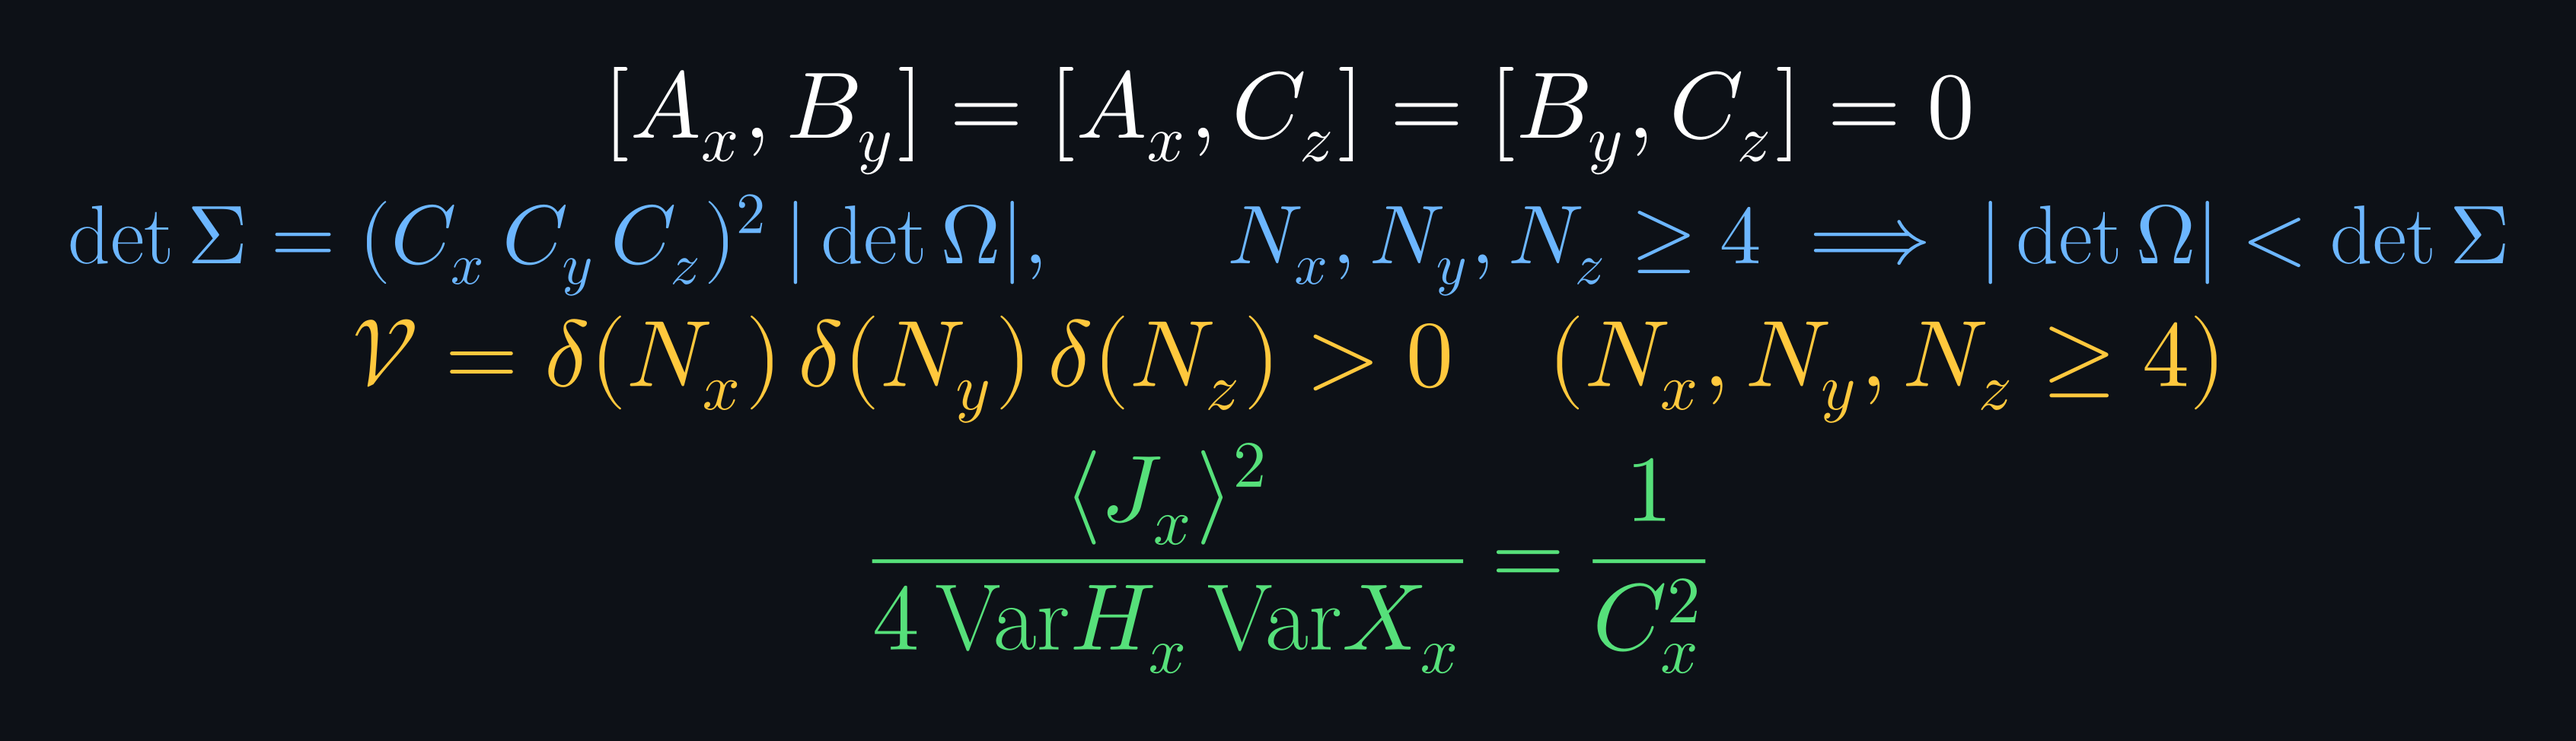
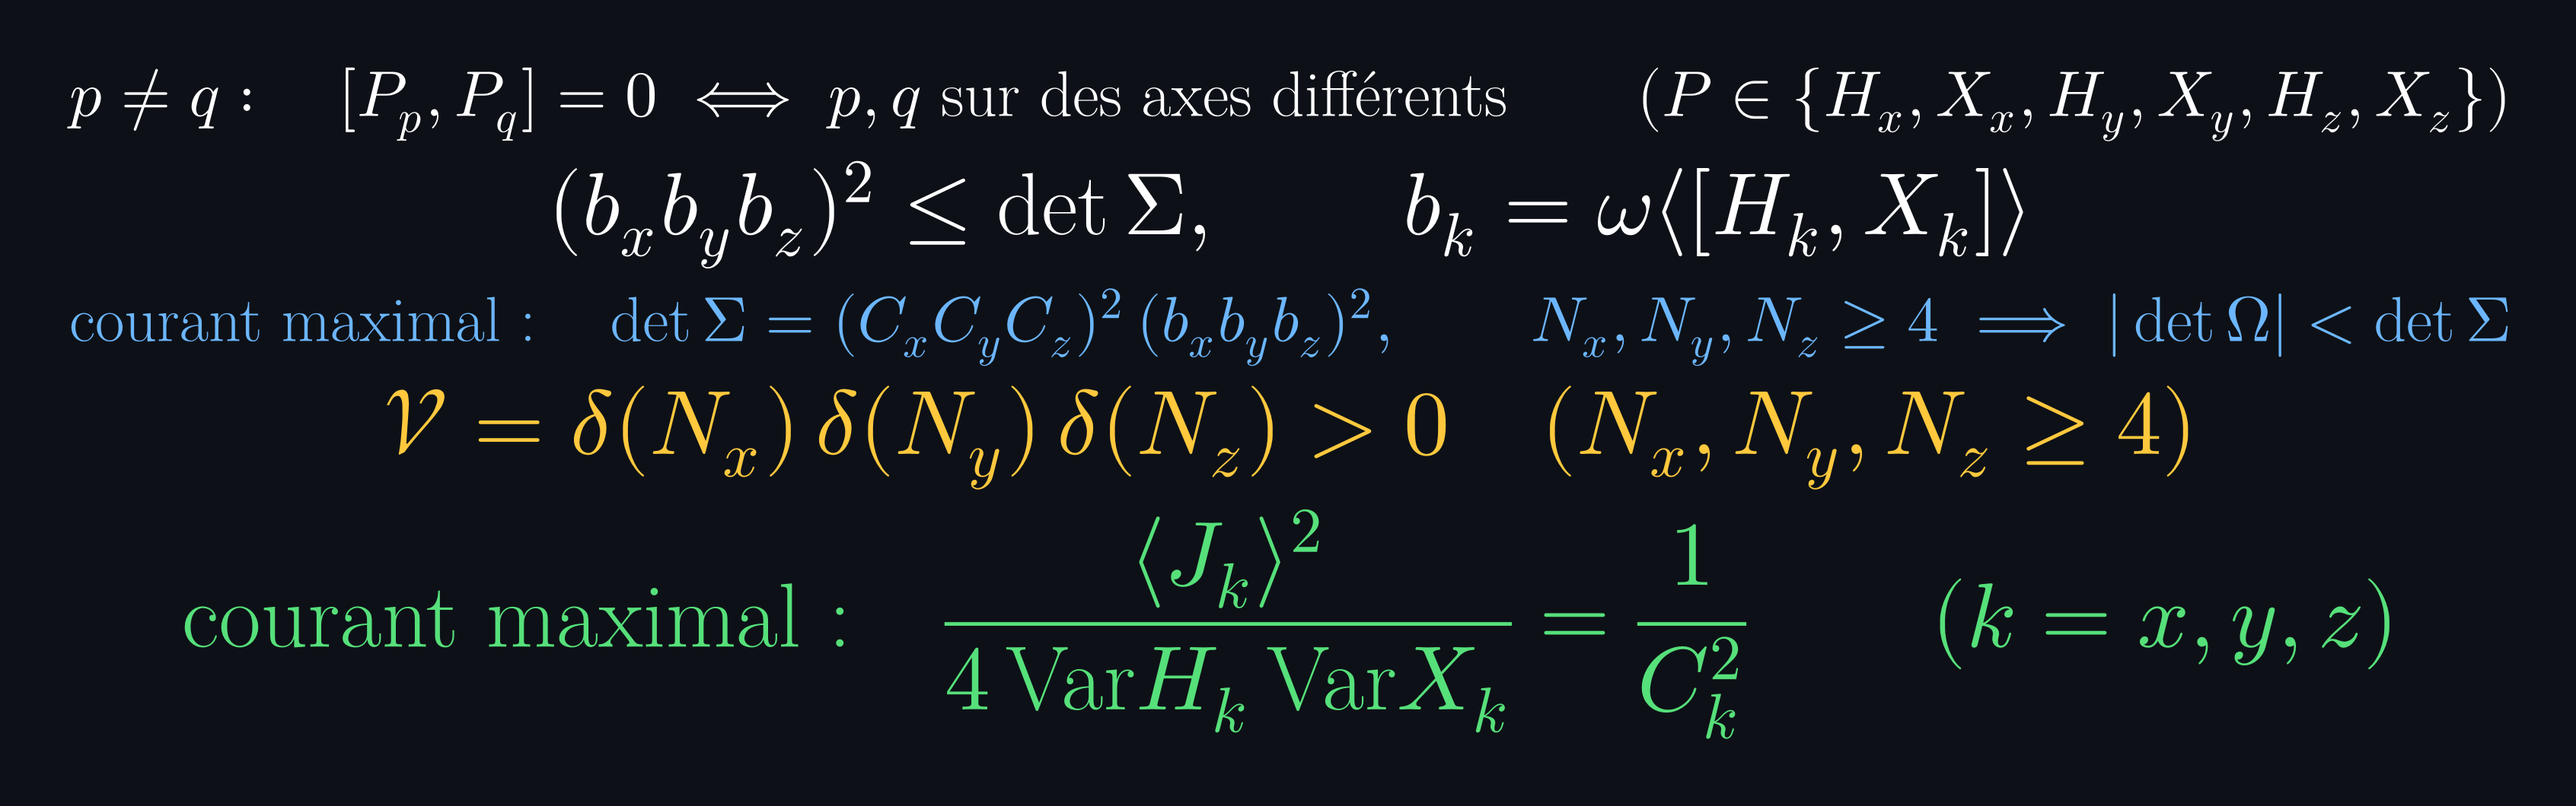
fix: every claim and every cited PR now matches a Lean statement
Lean:
- Cube.pairs_commute_iff: two of the six observables commute iff they lie on
  different axes (Physlib #1986, cited before but unused).
- Cube.mandelstamTamm_efficiency: ratio 1/C^2 on the three axes (was x only,
  the README said "each axis").
- tendsto_uncertaintyRatio_longChain: C -> sqrt(pi^2/3 - 2) (Physlib #1734,
  cited before but unused).
- openCubeNRS3 on t != 0, with commutation and the three axes;
  fork_unification drops the unused hypothesis 0 < G.
- Docstrings state exactly the Lean statements and their Physlib PRs.

README:
- PR table complete: #1718 #1723 #1724 #1730 #1742 added (used in Lean);
  every row is a declaration the repo uses.
- Robertson strict and Mandelstam-Tamm stated in the maximal current state.
- Step 1: maxCurrent is the largest eigenvalue of J, attained by the maximal
  current state (the "maximal group velocity" sentence was false).
- sqrt(-g00) = 1 + alpha xi for 1 + alpha xi >= 0; step 9 plaque redone.

Claude-Session: https://claude.ai/code/session_013BSioy1gyKo1tGTAdoLJW5

diff --git a/README.md b/README.md
@@ -29,12 +29,12 @@
 > 1. **`a` se simplifie** : `a / maxCurrent = 1 / (2|t| cos(π/(N+1)))`, le même pour tout espacement.
 > 2. **Le temps compte les pas** : `n` pas durent `n · τ_pas` ; aucun état ne parcourt `n` espacements plus vite ; l'état de courant maximal les parcourt exactement en ce temps.
 > 3. **Sans pas, pas de temps** : `n · τ_pas = 0 ⟺ n = 0`.
-> 4. **Lumière ou masse** : l'état de courant maximal sature Robertson–Schrödinger exactement en `N = 2, 3` ; dès `N = 4` son rapport d'incertitude vérifie `1 < C < √(π²/3 − 2)`.
+> 4. **Lumière ou masse** : l'état de courant maximal sature Robertson–Schrödinger exactement en `N = 2, 3` ; dès `N = 4` son rapport d'incertitude vérifie `1 < C < √(π²/3 − 2)`, et `C → √(π²/3 − 2)` quand `N → ∞`.
 > 5. **Niven** : dès `N = 3`, `cos(π/(N+1))` est irrationnel, donc le pas n'est jamais une fraction rationnelle de `1/|t|`.
 > 6. **Masse effective** : la masse effective de la bande, `m* = 1/E''(0) = 1/(2 t a²)`, a une énergie au repos `m* c² = 2 t cos²(π/(N+1))` où `a` se simplifie encore ; `α_G = G m*²/c > 0`.
 > 7. **Équivalence et `g₀₀`** : dans le référentiel accéléré, `g₀₀ = −(1 + αξ)² = −(1 + 2Φ) − Φ²` avec `Φ = αξ`, et une horloge statique bat à `1 + αξ` ; le champ faible de `Φ = −GM/r` a, en `r₀`, la même pente de `g₀₀` que le référentiel d'accélération `GM/r₀²`.
 > 8. **Einstein** : l'horloge accélérée fixe la température `α/2π`, et la relation de Clausius sur chaque nappe de lumière, avec `η = 1/(4ℓ²)`, donne `Ric − ½ R g + Λ g = 8π ℓ² T`.
-> 9. **Le cube ouvert NRS³** : sur le produit de trois chaînes, les axes distincts commutent ; dès `4 × 4 × 4`, le quantum volumétrique est strictement positif (`𝒱 > 0`) et Robertson 1934 est strict pour les six observables (`|det Ω| < det Σ`) ; le rapport de Mandelstam–Tamm vaut `1/C²` sur chaque axe. Les étapes sont réunies dans `fork_unification`.
+> 9. **Le cube ouvert NRS³** : sur le produit de trois chaînes, deux observables distinctes parmi `H_k, X_k` commutent si et seulement si elles sont sur des axes différents ; dès `4 × 4 × 4`, le quantum volumétrique est strictement positif (`𝒱 > 0`) et, dans l'état de courant maximal, Robertson 1934 est strict pour les six observables (`|det Ω| < det Σ`) ; dans cet état, le rapport de Mandelstam–Tamm vaut `1/C²` sur chaque axe. Le pas, `m* c²`, le cube, l'équivalence, Unruh et Einstein sont réunis dans `fork_unification`.
 
 <div align="center">
 <img src="assets/plaque_temps_pas_einstein.png" alt="Le temps compte les pas : position, simplification de a, lumière et masse, équation d'Einstein" width="860">
@@ -55,7 +55,8 @@ en ce temps (`elapsed_eq_travelTime_maxCurrentState`).
 
 **Lumière ou masse.** Le défaut de Gram de l'état de courant maximal est nul exactement en
 `N = 2, 3`, et dès `N = 4` le rapport d'incertitude est strictement entre `1` et `√(π²/3 − 2)`.
-Avec ce qui précède : `timeCountsSteps`.
+Avec ce qui précède : `timeCountsSteps`. Quand `N → ∞`, `C → √(π²/3 − 2)`
+(`tendsto_uncertaintyRatio_longChain`).
 
 **Niven.** `cos(π/(N+1)) ∉ ℚ` pour `N ≥ 3` (`cos_pi_div_succ_irrational`, sur le théorème de
 Niven de Mathlib), donc `2|t| τ_pas ∉ ℚ` (`stepTime_irrational`) ; en `N = 2`, `2|t| τ_pas = 2`
@@ -70,7 +71,7 @@ Niven de Mathlib), donc `2|t| τ_pas ∉ ℚ` (`stepTime_irrational`) ; en `N = 
 **Équivalence.** Le référentiel accéléré `t = (1/α + ξ) sinh αη`, `x = (1/α + ξ) cosh αη` a pour
 intervalle `−(1 + αξ)² dη² + dξ²` (`Frame.metric`) et coïncide en `ξ = 0` avec la ligne de Rindler
 (`Frame.time_zero`, `Frame.space_zero`). `g₀₀ = −(1 + 2Φ) − Φ²` (`Frame.g00_eq_weakField`),
-`√(−g₀₀) = 1 + αξ` (`Frame.clockRate`), et le champ faible de `−GM/r` a en `r₀` la pente de `g₀₀`
+`√(−g₀₀) = 1 + αξ` pour `1 + αξ ≥ 0` (`Frame.clockRate`), et le champ faible de `−GM/r` a en `r₀` la pente de `g₀₀`
 du référentiel d'accélération `GM/r₀²` (`Frame.equivalence`). Réunis : `massAndEquivalence`.
 
 **Horloge accélérée et Einstein.** La ligne d'univers de Rindler d'accélération `α` est paramétrée
@@ -78,15 +79,17 @@ par le temps propre, de période imaginaire minimale `2π/α` et de température
 (`acceleratedClock`). Clausius sur chaque nappe de lumière avec `η = 1/(4ℓ²)`, et `∇f = ½ ∇R`,
 donnent l'équation d'Einstein de couplage `8π ℓ²` (`einstein_eightPi`).
 
-**Le cube ouvert NRS³.** Sur le cube `Tx × Ty × Tz`, les
-observables d'axes distincts commutent (`Cube.axes_commute`), Robertson 1934 s'applique aux six
-observables (`Cube.robertson_det`), le rapport des déterminants vérifie `det Σ = (C_x C_y C_z)² |det Ω|`
-(`Cube.det_cov_maxCurrentCubeState`) et devient strict dès `4 × 4 × 4` (`Cube.robertson_det_strict`).
-Le quantum volumétrique est strictement positif (`Cube.volQuantum_pos`) et l'efficacité de
-Mandelstam–Tamm vaut `1/C_x²` (`Cube.mandelstamTamm_efficiency`). Réunis : `openCubeNRS3` et
-`fork_unification`.
+**Le cube ouvert NRS³.** Sur le cube `Tx × Ty × Tz`, les observables d'axes différents commutent
+(`Cube.axes_commute`) ; parmi les six observables `H_k, X_k`, deux observables distinctes
+commutent si et seulement si elles sont sur des axes différents (`Cube.pairs_commute_iff`). Dans
+tout état, `(b_x b_y b_z)² ≤ det Σ` avec `b_k = ω⟨[H_k, X_k]⟩` (`Cube.robertson_det`) ; dans l'état
+de courant maximal, `det Σ = (C_x C_y C_z)² (b_x b_y b_z)²` (`Cube.det_cov_maxCurrentCubeState`)
+et, dès `4 × 4 × 4`, `|det Ω| < det Σ` (`Cube.robertson_det_strict`). Dès `4 × 4 × 4`, `𝒱 > 0`
+(`Cube.volQuantum_pos`) ; dans l'état de courant maximal, le rapport de Mandelstam–Tamm vaut
+`1/C_k²` sur chaque axe (`Cube.mandelstamTamm_efficiency`). Réunis : `openCubeNRS3`.
 
-**Clôture.** `properTime_generalRelativity` et `fork_unification`.
+**Clôture.** `properTime_generalRelativity` (le pas, Unruh, Einstein) et `fork_unification` (en plus
+`m* c²`, le cube et l'équivalence).
 
 ---
 
@@ -101,8 +104,8 @@ Mandelstam–Tamm vaut `1/C_x²` (`Cube.mandelstamTamm_efficiency`). Réunis : `
 <img src="assets/plaque_etape1_saut.png" alt="Position, saut du graphe chemin, commutateur avec la position, limite de vitesse" width="860">
 </div>
 
-*Modules formels :* Physlib `PhyslibAlpha/CondensedMatter/TightBindingChain` : `Open/Basic.lean` (#2096) et `Current/SpeedLimit.lean`.  
-`maxCurrent` est la vitesse de groupe maximale de la chaîne finie : la borne est exacte et atteinte par l'état de courant maximal ; elle tend vers `2|a t|` quand `N → ∞`.
+*Modules formels :* Physlib `PhyslibAlpha/CondensedMatter/TightBindingChain` : `Open/Basic.lean` (#2096) et `Current/SpeedLimit.lean` (#1724).  
+`maxCurrent` est la plus grande valeur propre du courant `J` : la borne est exacte, atteinte par l'état de courant maximal.
 
 ### Étape 2 : `a` se simplifie, le temps compte les pas
 
@@ -131,15 +134,15 @@ Niven (Mathlib) : en `0 ≤ r ≤ 1`, `cos(rπ) ∈ ℚ` force `r ∈ {0, 1/3, 1
 ### Étape 4 : lumière en `N = 2, 3`, masse dès `N = 4`
 
 > **Proposition 4.1 (Physlib).** L'état de courant maximal sature Robertson–Schrödinger exactement
-> en `N = 2, 3` ; dès `N = 4`, `1 < C < √(π²/3 − 2)`.
+> en `N = 2, 3` ; dès `N = 4`, `1 < C < √(π²/3 − 2)` ; et `C → √(π²/3 − 2)` quand `N → ∞`.
 
 <div align="center">
 <img src="assets/plaque_etape3_lumiere_masse.png" alt="Saturation exactement en N = 2, 3 ; rapport d'incertitude strictement entre 1 et la limite de Szegő" width="860">
 </div>
 
-*Modules formels :* Physlib `MaxCurrentState/Saturation.lean`, `UncertaintyRatio.lean`, `LongChainMonotonicity.lean` (#1735) ; réunis dans [`StepTime.lean`](src/ProperTimeGeneralRelativity/StepTime.lean) (`timeCountsSteps`).
+*Modules formels :* Physlib `MaxCurrentState/Saturation.lean` (#1718), `UncertaintyRatio.lean` (#1723), `LongChainMonotonicity.lean` (#1735), `LongChainLimit.lean` (#1734) ; réunis dans [`StepTime.lean`](src/ProperTimeGeneralRelativity/StepTime.lean) (`timeCountsSteps`, `tendsto_uncertaintyRatio_longChain`).
 
-### Étape 5 : la masse effective, sans échelle libre
+### Étape 5 : la masse effective ; `a` se simplifie dans `m* c²`
 
 > **Théorème 5.1.** `E''(0) = 2 t a²`, `m* = 1/(2 t a²)` ; avec `c = maxCurrent`,
 > `m* c² = 2 t cos²(π/(N+1))`, `m* c² τ_pas = cos(π/(N+1))`, et `α_G = G m*²/c > 0` (`ħ = 1`).
@@ -167,14 +170,14 @@ Dans le code Lean l'accélération s'appelle `a` (`Rindler.time a`), sans lien a
 ### Étape 7 : le référentiel accéléré, `g₀₀` et l'équivalence
 
 > **Théorème 7.1.** Dans le référentiel `t = (1/α + ξ) sinh αη`, `x = (1/α + ξ) cosh αη`,
-> `−dt² + dx² = −(1 + αξ)² dη² + dξ²` ; `g₀₀ = −(1 + 2Φ) − Φ²` avec `Φ = αξ` ; `√(−g₀₀) = 1 + αξ`.
+> `−dt² + dx² = −(1 + αξ)² dη² + dξ²` ; `g₀₀ = −(1 + 2Φ) − Φ²` avec `Φ = αξ` ; `√(−g₀₀) = 1 + αξ` pour `1 + αξ ≥ 0`.
 > Pour `Φ(r) = −GM/r`, la pente de `−(1 + 2Φ)` en `r₀` est celle de `g₀₀` du référentiel d'accélération `GM/r₀²`.
 
 <div align="center">
 <img src="assets/plaque_equivalence.png" alt="Référentiel accéléré, métrique, g00 en champ faible, rythme des horloges, équivalence avec le potentiel newtonien" width="860">
 </div>
 
-*Modules formels :* [`Equivalence.lean`](src/ProperTimeGeneralRelativity/Equivalence.lean) (`Frame.metric`, `Frame.time_zero`, `Frame.g00_eq_weakField`, `Frame.clockRate`, `Frame.equivalence`).  
+*Modules formels :* [`Equivalence.lean`](src/ProperTimeGeneralRelativity/Equivalence.lean) (`Frame.metric`, `Frame.time_zero`, `Frame.space_zero`, `Frame.g00_eq_weakField`, `Frame.clockRate`, `Frame.equivalence`).  
 `cosh² − sinh² = 1` donne la métrique ; `d(−GM/r)/dr = GM/r²` donne l'accélération locale.
 
 ### Étape 8 : Clausius sur chaque nappe de lumière donne Einstein
@@ -193,13 +196,13 @@ Dans le code Lean l'accélération s'appelle `a` (`Rindler.time a`), sans lien a
 
 ### Étape 9 : le cube ouvert NRS³
 
-> **Proposition 9.1 (Physlib).** Les observables d'axes distincts commutent ; dans l'état de courant maximal du cube, `det Σ = (C_x C_y C_z)² |det Ω|` ; dès `4 × 4 × 4`, `𝒱 = δ(Nx) δ(Ny) δ(Nz) > 0` et `|det Ω| < det Σ` ; sur chaque axe, `⟨J⟩² / (4 Var H Var X) = 1/C²`.
+> **Proposition 9.1 (Physlib).** Parmi les six observables `H_k, X_k`, deux observables distinctes commutent si et seulement si elles sont sur des axes différents. Dans tout état, `(b_x b_y b_z)² ≤ det Σ` avec `b_k = ω⟨[H_k, X_k]⟩`. Dans l'état de courant maximal du cube : `det Σ = (C_x C_y C_z)² (b_x b_y b_z)²` ; dès `4 × 4 × 4`, `|det Ω| < det Σ` ; sur chaque axe, `⟨J_k⟩² / (4 Var H_k Var X_k) = 1/C_k²`. Dès `4 × 4 × 4`, `𝒱 = δ(Nx) δ(Ny) δ(Nz) > 0`.
 
 <div align="center">
 <img src="assets/plaque_etape9_cube.png" alt="Axes distincts qui commutent, déterminant de Robertson 1934, quantum volumétrique, rapport de Mandelstam–Tamm" width="860">
 </div>
 
-*Modules formels :* [`Cube.lean`](src/ProperTimeGeneralRelativity/Cube.lean) (`Cube.axes_commute`, `Cube.robertson_det`, `Cube.det_cov_maxCurrentCubeState`, `Cube.robertson_det_strict`, `Cube.volQuantum_pos`, `Cube.mandelstamTamm_efficiency`) ;
+*Modules formels :* [`Cube.lean`](src/ProperTimeGeneralRelativity/Cube.lean) (`Cube.axes_commute`, `Cube.pairs_commute_iff`, `Cube.robertson_det`, `Cube.det_cov_maxCurrentCubeState`, `Cube.robertson_det_strict`, `Cube.volQuantum_pos`, `Cube.mandelstamTamm_efficiency`) ;
 [`ProperTimeGeneralRelativity.lean`](src/ProperTimeGeneralRelativity.lean) (`openCubeNRS3`, `fork_unification`).
 
 ---
@@ -209,13 +212,19 @@ Dans le code Lean l'accélération s'appelle `a` (`Rindler.time a`), sans lien a
 | PR | Énoncé | Étape |
 |---|---|---|
 | [#2096](https://github.com/leanprover-community/physlib/pull/2096) | la chaîne ouverte est le saut du graphe chemin : `H = E₀ I − t A(P_N)` | 1 |
-| [#1725](https://github.com/leanprover-community/physlib/pull/1725) | le cube ouvert NRS³ : trois axes commutants et constante C par axe | 9 |
-| [#1734](https://github.com/leanprover-community/physlib/pull/1734) | `C → √(π²/3 − 2)` pour les longues chaînes | 4 |
+| [#1724](https://github.com/leanprover-community/physlib/pull/1724) | limite de vitesse : `|⟨J⟩_ω| ≤ maxCurrent`, atteinte par l'état de courant maximal | 1, 2 |
+| [#1718](https://github.com/leanprover-community/physlib/pull/1718) | l'état de courant maximal sature Robertson–Schrödinger exactement en `N = 2, 3` | 4 |
+| [#1723](https://github.com/leanprover-community/physlib/pull/1723) | `1 < C` dès `N = 4` | 4 |
 | [#1735](https://github.com/leanprover-community/physlib/pull/1735) | `C` strictement croissant dès quatre sites, `C < √(π²/3 − 2)` | 4 |
-| [#1739](https://github.com/leanprover-community/physlib/pull/1739) | Mandelstam–Tamm et Cramér–Rao sur chaque axe : rapport `1/C²` | 9 |
-| [#1756](https://github.com/leanprover-community/physlib/pull/1756) | angle NRS et quantum volumétrique strictement positif | 9 |
-| [#1986](https://github.com/leanprover-community/physlib/pull/1986) | deux observables du cube commutent si et seulement si elles sont sur des axes distincts | 9 |
+| [#1734](https://github.com/leanprover-community/physlib/pull/1734) | `C → √(π²/3 − 2)` pour les longues chaînes | 4 |
+| [#1725](https://github.com/leanprover-community/physlib/pull/1725) | le cube ouvert : les observables d'axes différents commutent | 9 |
+| [#1730](https://github.com/leanprover-community/physlib/pull/1730) | Robertson 1934 pour plusieurs observables : `|det Ω| ≤ det Σ` | 9 |
+| [#1742](https://github.com/leanprover-community/physlib/pull/1742) | Robertson 1934 sur le cube ; `det Σ` au courant maximal ; strict dès `4 × 4 × 4` | 9 |
+| [#1756](https://github.com/leanprover-community/physlib/pull/1756) | le quantum volumétrique `𝒱 = δ(Nx) δ(Ny) δ(Nz)`, positif dès `4 × 4 × 4` | 9 |
+| [#1739](https://github.com/leanprover-community/physlib/pull/1739) | Mandelstam–Tamm au courant maximal : rapport `1/C²`, sur chaque axe du cube | 9 |
+| [#1986](https://github.com/leanprover-community/physlib/pull/1986) | deux observables du cube commutent si et seulement si elles sont sur des axes différents | 9 |
 
+Les noms actuels des déclarations viennent du [renommage de Joseph Tooby-Smith](https://github.com/leanprover-community/physlib/pull/1792) (« Fix names », 14 octobre 2026).
 ---
 
 ## Catalogue des modules Lean
@@ -226,24 +235,26 @@ Dans le code Lean l'accélération s'appelle `a` (`Rindler.time a`), sans lien a
 | [`StepTime.lean`](src/ProperTimeGeneralRelativity/StepTime.lean) | `elapsed_eq_zero_iff` | sans pas, pas de temps | 0 sorry |
 | [`StepTime.lean`](src/ProperTimeGeneralRelativity/StepTime.lean) | `elapsed_le_travelTime` | aucun état plus rapide que les pas | 0 sorry |
 | [`StepTime.lean`](src/ProperTimeGeneralRelativity/StepTime.lean) | `timeCountsSteps` | le temps compte les pas ; lumière ou masse | 0 sorry |
+| [`StepTime.lean`](src/ProperTimeGeneralRelativity/StepTime.lean) | `tendsto_uncertaintyRatio_longChain` | `C → √(π²/3 − 2)` quand `N → ∞` | 0 sorry |
 | [`Niven.lean`](src/ProperTimeGeneralRelativity/Niven.lean) | `stepTime_irrational` | `2|t| τ_pas ∉ ℚ` dès `N = 3` | 0 sorry |
 | [`Mass.lean`](src/ProperTimeGeneralRelativity/Mass.lean) | `effMass_mul_maxCurrent_sq` | `m* c² = 2 t cos²(π/(N+1))`, sans `a` | 0 sorry |
 | [`Mass.lean`](src/ProperTimeGeneralRelativity/Mass.lean) | `gravitationalCoupling_pos` | `α_G = G m*²/c > 0` | 0 sorry |
 | [`Equivalence.lean`](src/ProperTimeGeneralRelativity/Equivalence.lean) | `metric` | `−(1 + αξ)² dη² + dξ²` | 0 sorry |
 | [`Equivalence.lean`](src/ProperTimeGeneralRelativity/Equivalence.lean) | `equivalence` | champ faible de `M` = référentiel accéléré au premier ordre | 0 sorry |
 | [`Cube.lean`](src/ProperTimeGeneralRelativity/Cube.lean) | `axes_commute` | commutation des observables entre axes distincts | 0 sorry |
-| [`Cube.lean`](src/ProperTimeGeneralRelativity/Cube.lean) | `robertson_det` | Robertson 1934 sur les six observables du cube | 0 sorry |
-| [`Cube.lean`](src/ProperTimeGeneralRelativity/Cube.lean) | `det_cov_maxCurrentCubeState` | `det Σ = (C_x C_y C_z)² |det Ω|` | 0 sorry |
-| [`Cube.lean`](src/ProperTimeGeneralRelativity/Cube.lean) | `robertson_det_strict` | `|det Ω| < det Σ` dès `4 × 4 × 4` | 0 sorry |
+| [`Cube.lean`](src/ProperTimeGeneralRelativity/Cube.lean) | `pairs_commute_iff` | deux des six observables commutent ⟺ axes différents | 0 sorry |
+| [`Cube.lean`](src/ProperTimeGeneralRelativity/Cube.lean) | `robertson_det` | `(b_x b_y b_z)² ≤ det Σ` dans tout état | 0 sorry |
+| [`Cube.lean`](src/ProperTimeGeneralRelativity/Cube.lean) | `det_cov_maxCurrentCubeState` | `det Σ = (C_x C_y C_z)² (b_x b_y b_z)²` au courant maximal | 0 sorry |
+| [`Cube.lean`](src/ProperTimeGeneralRelativity/Cube.lean) | `robertson_det_strict` | `|det Ω| < det Σ` au courant maximal dès `4 × 4 × 4` | 0 sorry |
 | [`Cube.lean`](src/ProperTimeGeneralRelativity/Cube.lean) | `volQuantum_pos` | quantum volumétrique `𝒱 > 0` | 0 sorry |
-| [`Cube.lean`](src/ProperTimeGeneralRelativity/Cube.lean) | `mandelstamTamm_efficiency` | efficacité `1/C_x²` sur chaque axe | 0 sorry |
+| [`Cube.lean`](src/ProperTimeGeneralRelativity/Cube.lean) | `mandelstamTamm_efficiency` | rapport de Mandelstam–Tamm `1/C_k²` sur chaque axe | 0 sorry |
 | [`ProperTimeGeneralRelativity.lean`](src/ProperTimeGeneralRelativity.lean) | `massAndEquivalence` | Niven, masse, `α_G`, équivalence | 0 sorry |
-| [`ProperTimeGeneralRelativity.lean`](src/ProperTimeGeneralRelativity.lean) | `openCubeNRS3` | le cube ouvert NRS³ à trois axes | 0 sorry |
+| [`ProperTimeGeneralRelativity.lean`](src/ProperTimeGeneralRelativity.lean) | `openCubeNRS3` | commutation, `𝒱 > 0`, Robertson strict, Mandelstam–Tamm sur les trois axes | 0 sorry |
 | [`ProperTimeGeneralRelativity.lean`](src/ProperTimeGeneralRelativity.lean) | `fork_unification` | le pas, `m* c²`, le cube, l'équivalence, Unruh et Einstein réunis | 0 sorry |
 | [`ProperTimeGeneralRelativity.lean`](src/ProperTimeGeneralRelativity.lean) | `acceleratedClock` | temps propre, période `2π/α`, `T = α/2π` | 0 sorry |
 | [`EinsteinEquation.lean`](src/ProperTimeGeneralRelativity/Gravity/EinsteinEquation.lean) | `einstein_equation` | Clausius partout donne Einstein | 0 sorry |
 | [`ProperTimeGeneralRelativity.lean`](src/ProperTimeGeneralRelativity.lean) | `einstein_eightPi` | Einstein avec couplage `8π ℓ²` | 0 sorry |
-| [`ProperTimeGeneralRelativity.lean`](src/ProperTimeGeneralRelativity.lean) | `properTime_generalRelativity` | les étapes réunies | 0 sorry |
+| [`ProperTimeGeneralRelativity.lean`](src/ProperTimeGeneralRelativity.lean) | `properTime_generalRelativity` | le pas, Unruh et Einstein réunis | 0 sorry |
 
 `Unruh.lean`, `Clausius.lean`, `NullForms.lean` et `EinsteinEquation.lean` viennent de
 [`nrs3-tritoro`](https://github.com/naype888-cloud/nrs3-tritoro) (`NRS3Tritoro/Gravity`), copiés
